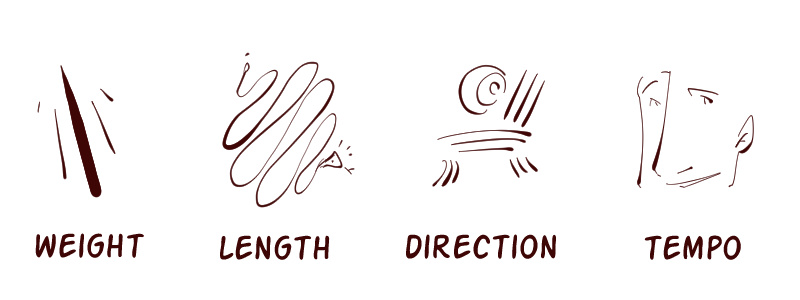
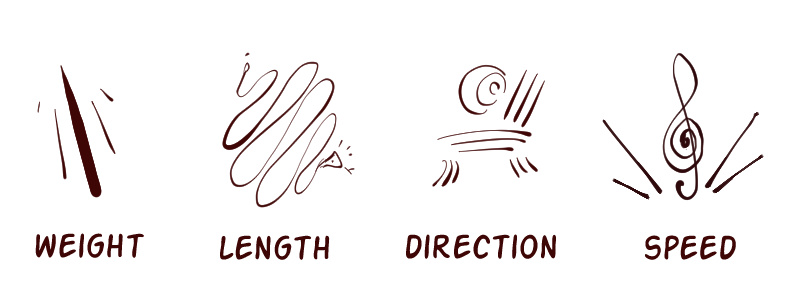
WIP

Changed region(s): [[0.75, 0.18, 0.9688, 0.66], [0.7812, 0.78, 0.9375, 0.87], [0.75, 0.39, 0.7812, 0.48]]

diff --git a/articles/lines-and-edges/index.html b/articles/lines-and-edges/index.html
@@ -48,15 +48,60 @@
 			<p>
 				The easiest way to explain this is by drawing a distinction between <em>lines</em> and <em>edges</em>.
 			</p>
+
+			<!-- Lines -->
+
+			<h2 id="lines">Lines</h2>
 			<p>
-				Conceptually, a <dfn>line</dfn> is a standalone graphic element. It has properties such as weight, direction,
-				rhythm, and energy. Careful arrangement of lines yields a finished illustration.
+				Conceptually, a <dfn>line</dfn> is a standalone graphic element. It has properties such as weight, length,
+				direction, and speed.
 			</p>
 			<img src="lines.jpg" alt="Figure showing properties of lines." title="Different properties of lines.">
 			<p>
-				On the other hand, an <dfn>edge</dfn> represents the boundary between two different shapes. This leads to some
-				interesting characteristics. For one, the only property edges have is hardness. When two shapes immediately
-				transition, the edge is hard. When two gradients gradually mix together, the edge is soft.
+				We use these properties to express how we <em>feel</em> about our subject. For example...
+			</p>
+			<ul>
+				<li>
+					If we feel a particular feature is important, we can thicken our stroke weight to emphasize this importance.
+				</li>
+				<li>
+					If we feel a set of features read as one connected thought, we can combine them together by using a single
+					long stroke.
+				</li>
+				<li>
+					If we feel a particular feature moves in a certain direction, we can align our stroke directions along the
+					direction of movement.
+				</li>
+				<li>
+					If we feel a certain tempo while passing through a feature, we can adjust our stroke speed to match the
+					pacing.
+				</li>
+			</ul>
+			<p>
+				Lines represent complete thoughts.
+			</p>
+			<img src="line-drawing.jpg" alt="A line drawing of a reversed dolphin mermaid." title="A standalone element.">
+			<p>
+				We do not need to add colors or shading to finish the illustration. Lines can stand on their own as a graphic
+				element.
+			</p>
+
+			<!-- Edges -->
+
+			<h2 id="edges">Edges</h2>
+			<p>
+				On the other hand, an <dfn>edge</dfn> represents the boundary between two different shapes.
+			</p>
+			<p>
+				The easiest way to understand edges is by using the analogy of fences.
+			</p>
+			<img src="fence.jpg" alt="A figure showing a simple picket fence." title="Fences are boundaries.">
+			<p>
+				Like fences, edges separate two different regions of space. This leads to some interesting characteristics.
+			</p>
+			<p>
+				For one, the only property edges have is hardness. When two shapes immediately transition, the edge is hard.
+				When two gradients gradually mix together, the edge is soft.
 			</p>
 			<img src="edges.jpg" alt="Figure comparing hard and soft edges." title="Hard vs soft edges.">
 			<p>
@@ -66,9 +111,9 @@
 			<img src="edges2.jpg" alt="Figure showing relationship of edges to shapes."
 				title="Edges are a property of shapes.">
 			<p>
-				Where this distinction becomes muddled is once these two concepts hit the canvas. Usually, lines and edges are
-				drawn using the same technique: a thin contrasting line. This unfortunate coincidence can make it difficult for
-				an untrained eye to tell the difference.
+				Where this distinction between lines and edges becomes muddled is once these two concepts hit the canvas. We
+				usually draw both lines and edges using the same technique: a thin elongated mark. This unfortunate coincidence
+				can make it difficult for an untrained eye to tell the difference.
 			</p>
 			<img src="muddle.jpg" alt="An annotated illustration identifying edges versus lines"
 				title="Examples of lines vs edges.">
@@ -77,13 +122,17 @@
 					change the width of this line without losing any information?</q>
 			</p>
 			<p>
-				Edges are the boundaries between shapes. No matter how wide the mark used to represent them is, we are still
-				showing the same information. Lines are different. If we change the width of the line, we change its inherent
-				properties.
+				Edges are the boundaries between shapes. No matter how wide or thin the mark is, the conceptual division between
+				two distinct shapes remains the same. Mark width is irrelevant for edges.
+			</p>
+			<p>
+				Line are different. If we change the width of the line, we fundamentally alter its meaning. Lines represent
+				thoughts, and when we alter the line, we alter the thought.
 			</p>
 
-			<h2>Sketching with Edges</h2>
+			<!-- Sketching -->
 
+			<h2 id="sketching-with-edges">Sketching with Edges</h2>
 			<p>
 				This brings us back to anime-style line art. Let us first break down how we can achieve a similar sketch style
 				to Japanese anime artists.
@@ -134,11 +183,13 @@
 			</p>
 			<img src="shrink.jpg" alt="A figure showing progressively thinner edges." title="Only the shape matters.">
 			<p>
-				Our lines might start to become become a little wobbly, but that's fine. The mark itself is no longer important,
+				Our lines might start to become a little wobbly, but that's fine. The mark itself is no longer important,
 				only the shape it encloses.
 			</p>
 
-			<h2>Painting with Edges</h2>
+			<!-- Painting -->
+
+			<h2 id="painting-with-edges">Painting with Edges</h2>
 			<p>
 				So far, we have only talked about black and white drawings. Now let's take a look at how our understanding of
 				lines versus edges applies to painting.
@@ -178,7 +229,9 @@
 				-- Can use lines occasionally, but only if it is a standalone element.
 			</p>
 
-			<h2 id="summary">Summary</h2>
+			<!-- Closing Remarks -->
+
+			<h2 id="closing-remarks">Closing Remarks</h2>
 			<ul>
 				<li>A line is a standalone element with properties like weight and direction.</li>
 				<li>An edge is a boundary between two different shapes.</li>
@@ -203,12 +256,14 @@
 			<a href="diagram.jpg" target="_blank"><img src="diagram.jpg"></a>
 
 			<p>Happy drawing!</p>
-			<p>🥕</p>
-			<p class="end-mark">∎</p>
+			<p class="end-mark">🥕</p>
 		</article>
+
+		<!-- Tasks -->
 
 		<div id="task-section">
 			<h2 id="tasks">Tasks (Under Construction)</h2>
+
 
 			<section>
 				<h3>Identifying Lines and Edges</h3>

diff --git a/articles/lines-and-edges/style.css b/articles/lines-and-edges/style.css
@@ -52,7 +52,7 @@ h1 {
 }
 
 h2 {
-	font-size: 2em;
+	font-size: 1.8em;
 	margin-bottom: 0.2em;
 }
 
@@ -68,7 +68,8 @@ figure {
 }
 
 .end-mark {
-	text-align: right;
+	text-align: center;
+	font-size: 1.3em;
 }
 
 /* ----- Tasks ----- */
